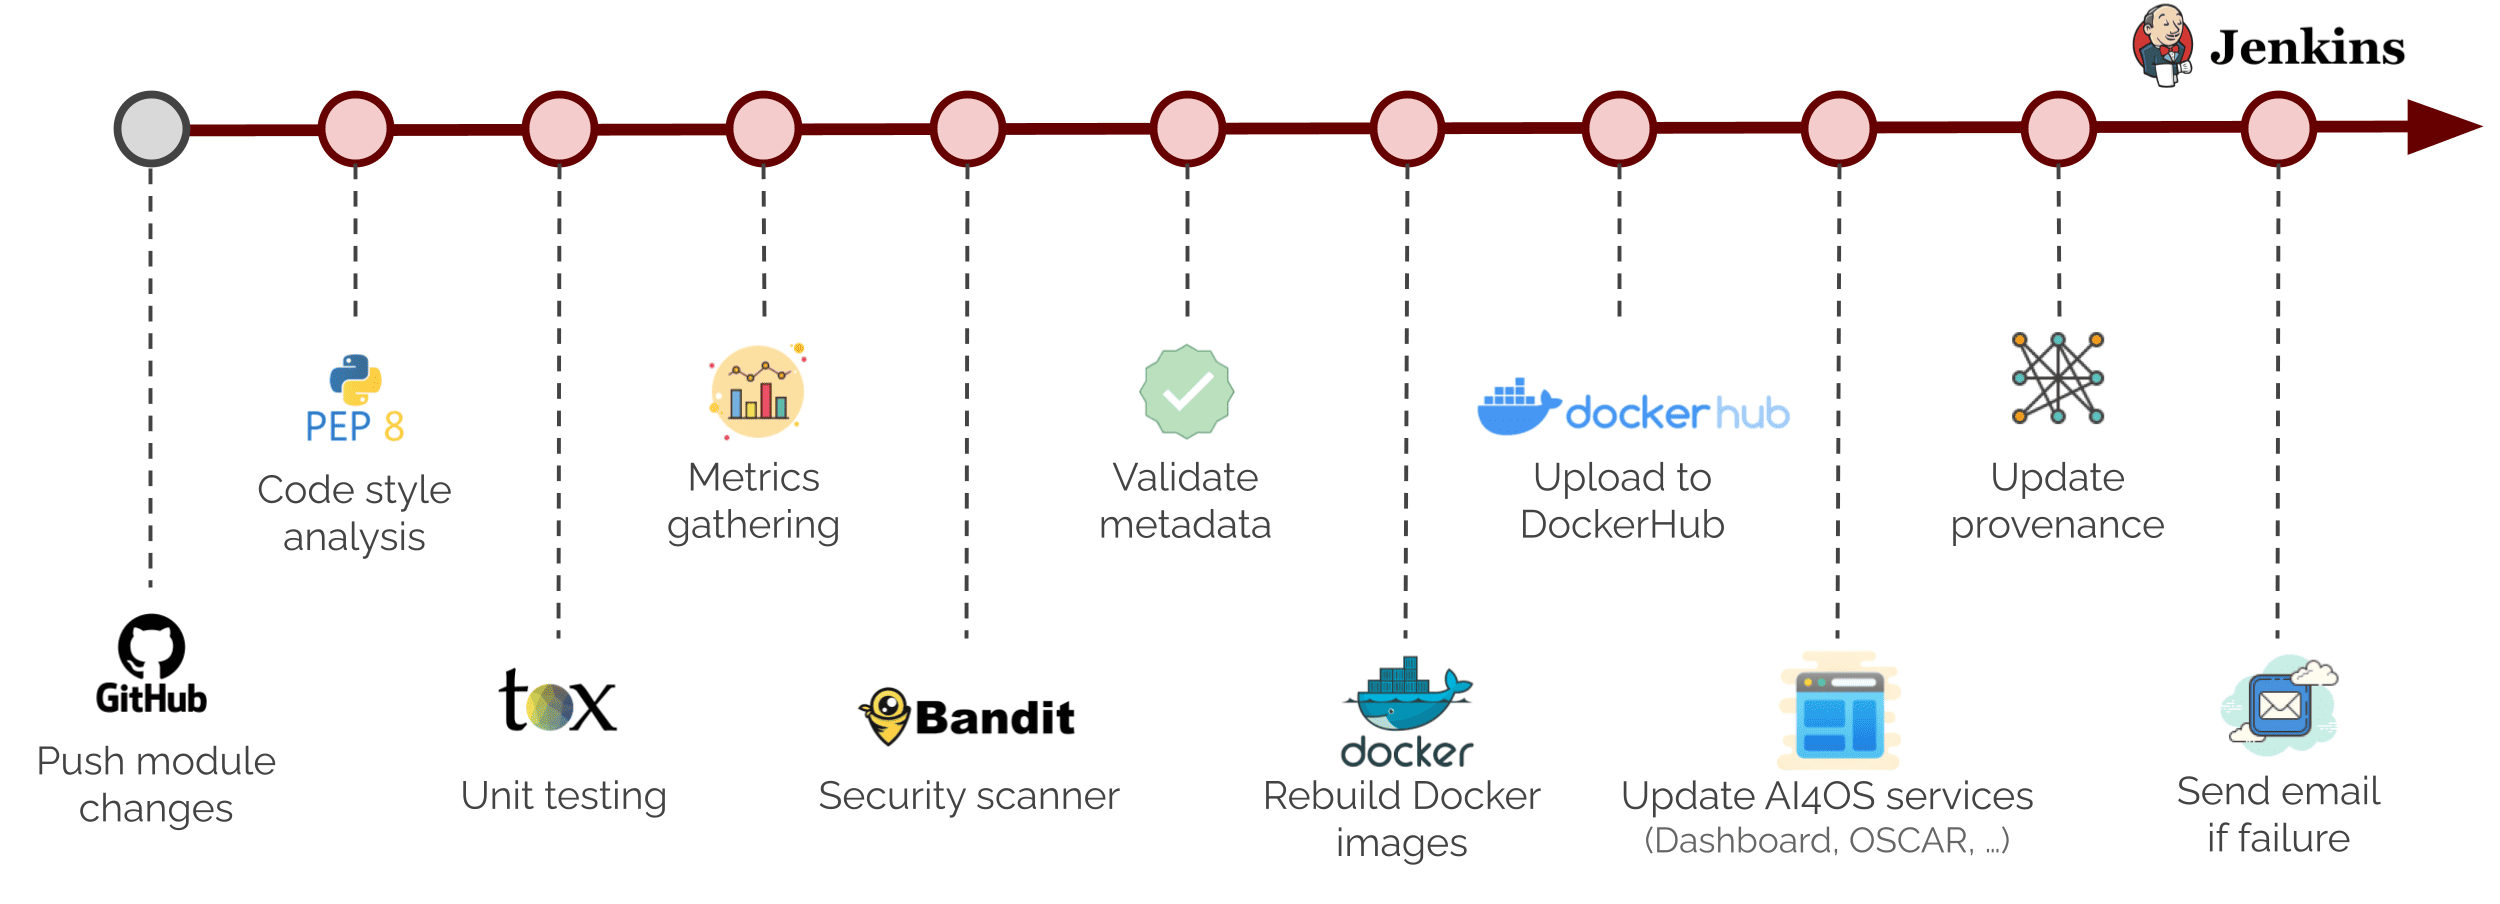
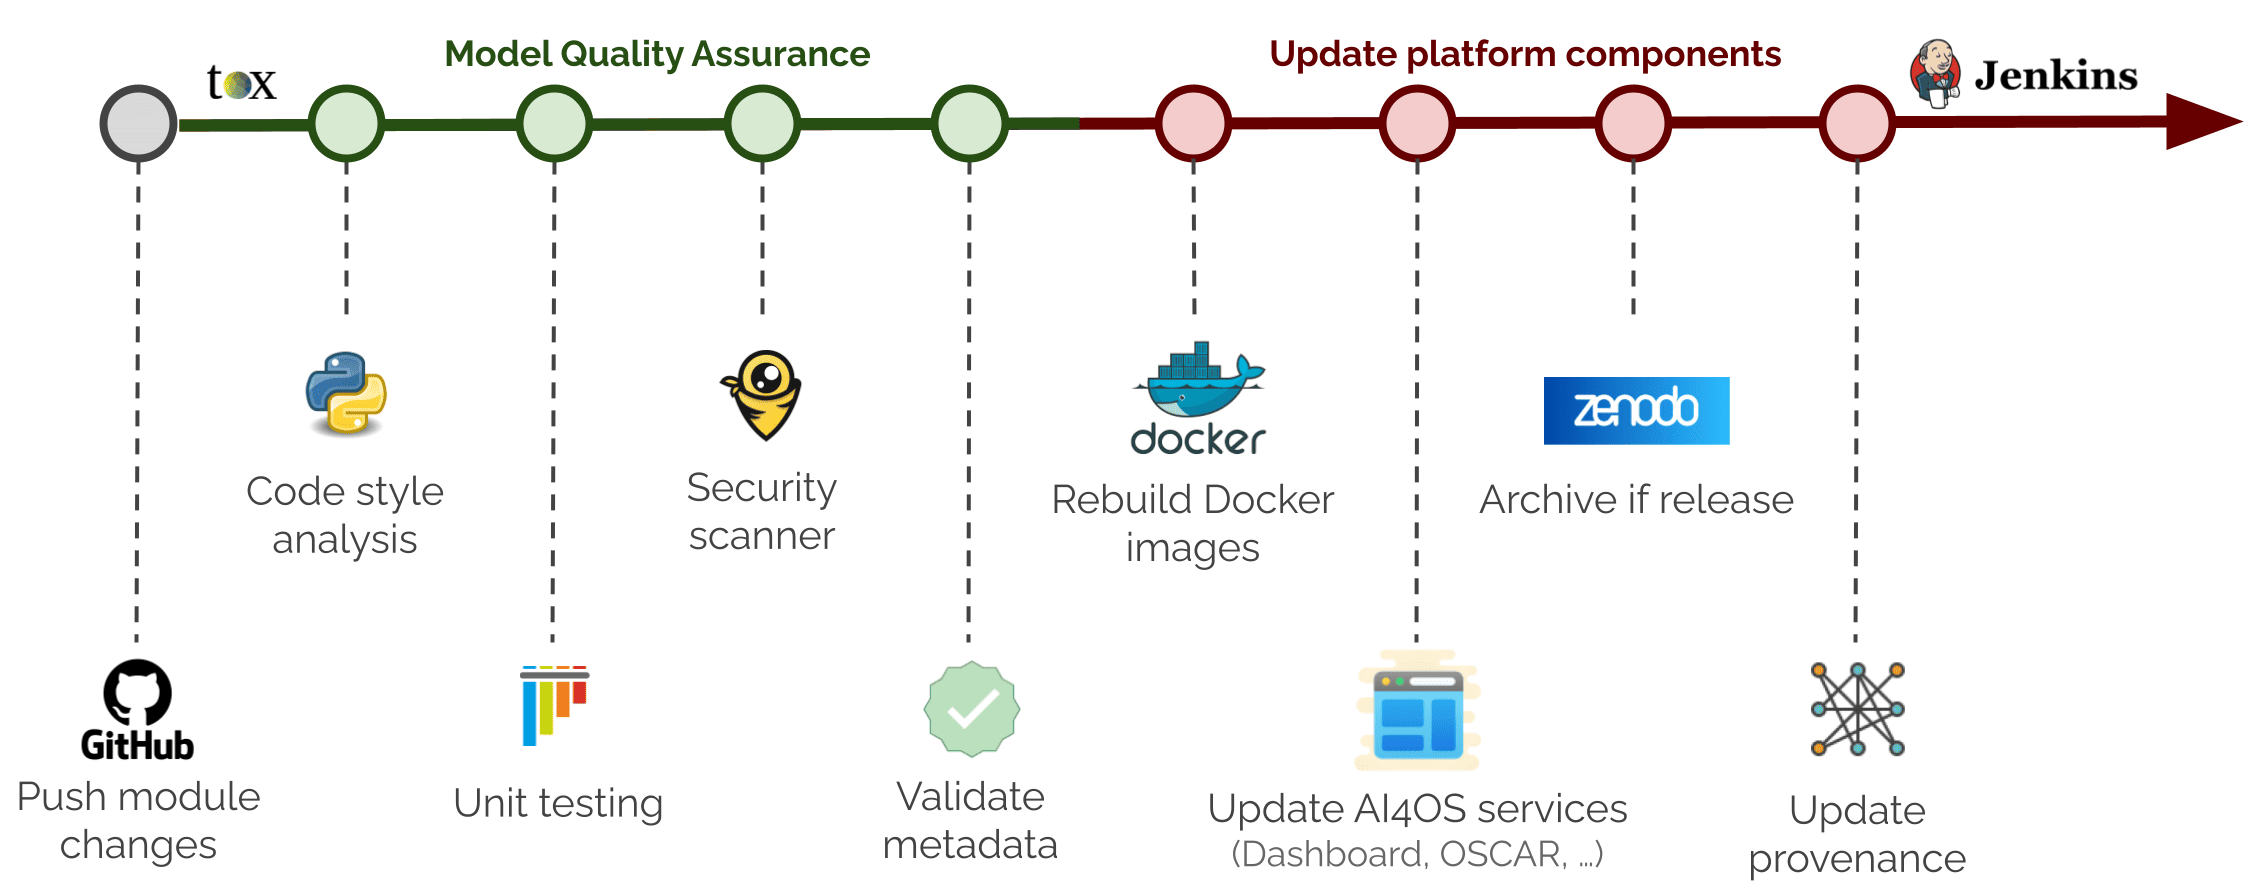
docs: update develop workflow

diff --git a/source/howtos/develop/dashboard.rst b/source/howtos/develop/dashboard.rst
@@ -2,15 +2,6 @@ Develop a model from scratch
 ============================
 
 .. admonition:: Requirements
-   :class: info
-
-   🔒 This tutorial requires :ref:`full authentication <getting-started/register:Full authentication>`.
-
-This tutorial explains how to develop a AI4OS module from scratch.
-
-If you are new to Machine Learning, you might want to check some :doc:`useful Machine Learning resources </others/useful-ml-resources>` we compiled to help you getting started.
-
-.. admonition:: Requirements
     :class: info
 
     * For **Step 1**, to use the Module's template webpage, you need at least :doc:`basic authentication </reference/user-access-levels>`.
@@ -18,6 +9,9 @@ If you are new to Machine Learning, you might want to check some :doc:`useful Ma
       Otherwise you can develop locally.
     * For **Step 4** we recommend having `docker <https://docs.docker.com/install/#supported-platforms>`__ installed (though it's not strictly mandatory).
 
+This tutorial explains how to develop a AI4OS module from scratch.
+
+If you are new to Machine Learning, you might want to check some :doc:`useful Machine Learning resources </others/useful-ml-resources>` we compiled to help you getting started.
 
 1. Setting the framework
 ------------------------
@@ -26,7 +20,7 @@ This first step relies on the :doc:`the AI4OS Modules Template </reference/cooki
 
 * Access and authenticate in the `Template creation webpage <https://templates.cloud.ai4eosc.eu/>`__.
 * Then select the ``minimal`` branch of the template and answer the questions.
-* Click on ``Generate`` and you will be able to download a ``.zip`` file with with your project directory. Extract it locally.
+* Click on ``Generate`` and you will be able to download a ``.zip`` file with with your project directory.
 
 2. Prepare your development environment
 ---------------------------------------
@@ -36,12 +30,12 @@ Although it is possible to develop your code locally, we also offer the possibil
 This offers the benefits of:
 
 * developing on dedicated resources (including GPUs),
-* have direct access to your Nextcloud storage,
-* develop on Docker image that is already packaged with your favorite Deep Learning framework (eg. Pytorch, Tensorflow),
+* have direct access to your data hosted in the :doc:`AI4OS Storage </reference/storage>`,
+* develop on a Docker image that is already packaged with your favorite Deep Learning framework (eg. Pytorch, Tensorflow),
 * develop on your favorite IDE (Jupyterlab or VScode),
 
-Check :ref:`how to configure <dashboard_deployment>` the AI4OS Development Environment.
-For example, this is what an AI4OS Development Environment with VScode would look out-of-the-box:
+Check :ref:`how to create and configure <dashboard_deployment>` the AI4OS Development Environment.
+This is what an AI4OS Development Environment with VScode would look out-of-the-box:
 
 .. dropdown:: :fab:`youtube;youtube-icon` Launching a development environment
 
@@ -54,13 +48,13 @@ For example, this is what an AI4OS Development Environment with VScode would loo
 .. image:: /_static/images/endpoints/vscode.png
 
 
-.. admonition:: Use storage-synced folder to develop
+.. admonition:: 💡 Use storage-synced folder to develop
    :class: info
 
-   We recommend you make a :ref:`deployment synced with storage <dashboard_storage>`.
+   We recommend to create a :ref:`deployment attached to storage <dashboard_storage>`.
 
-   By doing so, you can develop your code inside the ``/storage`` folder and any changes you make will automatically be synced with the :doc:`project's Cloud storage </reference/storage>`.
-   This will prevent you from losing your work in the case that a deployment crash occurs.
+   By doing so, you can develop your code inside the ``/storage`` folder and any changes you make will automatically be synced with the :doc:`AI4OS Storage </reference/storage>`.
+   This will prevent any work loss in case of an unexpected deployment crash.
 
 
 .. _develop_code:
@@ -68,29 +62,30 @@ For example, this is what an AI4OS Development Environment with VScode would loo
 3. Editing the module's code
 ----------------------------
 
-Unpack, the zip file created in Step 1.
-Install your project as a Python module in **editable** mode (so that the changes you make to the codebase are picked by Python).
-
-.. code-block:: console
-
-    $ cd <project-name>
-    $ pip install -e .
-
-Now you can start writing your code.
+Drag and drop in the VScode editor the zip file created in Step 1. Then unpack it.
 
 .. dropdown::  💡 Optimal VScode setup
 
    **Tip nº1**:
    VScode by default is initialized in ``/srv``.
    For a better coding experience we suggest opening VScode with your folder project *only*.
-   This will allow you to ignore other non-related folders under ``/srv`` when doing global searches for example.
+   This will allow you to ignore other non-related folders under ``/srv`` when doing global searches or tracking changes, for example.
    For this, go to ``File > Open Folder > /srv/<project-name>``.
+
+   As explained earlier, having your project under ``/storage`` will allow it to be automatically synced with the :doc:`AI4OS Storage </reference/storage>`.
 
    **Tip nº2**:
    :ref:`Use the AI4OS LLM as coding assistant <reference/llm:Use it as a code assistant with VScode>`.
-   We recommend doing this along tip nº1 in order to avoid Continue from freezing when trying to index the whole workspace contents.
+   We recommend implementing first tip nº1, in order to avoid the Continue assistant from freezing when trying to index the whole workspace contents.
 
-.. dropdown::  🛠 Troubleshooting DEEPaaS installation
+Install your project as a Python module in **editable** mode, so that the changes you make to the codebase are picked by Python.
+
+.. code-block:: console
+
+   cd <project-name>
+   pip install -e .
+
+.. dropdown::  🛠 Troubleshooting pip installation
 
     Some users have reported issues in some systems when installing ``deepaas`` (which is always present in the ``requirements.txt`` of your project).
     Those issues have been resolved as following:
@@ -98,9 +93,13 @@ Now you can start writing your code.
     * In `Pytorch Docker images <https://hub.docker.com/r/pytorch/pytorch>`__, making sure ``gcc`` is installed (``apt install gcc``)
     * In other systems, sometimes ``python3-dev`` is needed (``apt install python3-dev``).
 
+Now you can start adding your AI model code inside ``<project-name>/<project-name>``.
 
-To be able to interface with DEEPaaS :ref:`you have to define <deepaas-integrate>`
-in ``api.py`` the functions you want to make accessible to the user.
+Integrating with the DEEPaaS API
+^^^^^^^^^^^^^^^^^^^^^^^^^^^^^^^^
+
+Once your code is included, you need your module to be able to interface with the :doc:`DEEPaaS API </reference/api>`, which allows any module in the Marketplace to be accessed using the same API.
+For this, :ref:`you have to define <deepaas-integrate>` in ``api.py`` the functions you want to make accessible to the user.
 For this tutorial we are going to head to our `official demo module <https://github.com/ai4os-hub/ai4os-demo-app/blob/main/ai4os_demo_app/api.py>`__
 and copy-paste its ``api.py`` file.
 
@@ -108,7 +107,7 @@ Once this is done, check that DEEPaaS is interfacing correctly by running:
 
 .. code-block:: console
 
-    $ deepaas-run --listen-ip 0.0.0.0
+   deepaas-run --listen-ip 0.0.0.0
 
 Your module should be visible in http://0.0.0.0:5000/ui .
 If you don't see your module, you probably messed the ``api.py`` file.
@@ -116,7 +115,7 @@ Try running it with python so you get a more detailed debug message.
 
 .. code-block:: console
 
-    $ python api.py
+   python api.py
 
 Remember to leave untouched the ``get_metadata()`` function that comes predefined with your module,
 as all modules should have proper metadata.
@@ -128,14 +127,17 @@ In general, you will have the following ports available when making a deployment
 * ``8888``: default port used for exposing the IDE (eg. JupyterLab, VScode)
 * ``80``: port available to let developers expose their custom endpoint
 
+Model Quality Assurance
+^^^^^^^^^^^^^^^^^^^^^^^
+
 In order to improve the readability of the code and the overall maintainability of your module,
-we enforce some quality standards in tox (including style, security, etc).
+we :ref:`enforce some quality standards <reference/modules:CI /CD pipeline>` in tox (including style, security, etc).
 Modules that fail to pass style tests won't be able to build docker images.
 You can check locally if your module passes the tests:
 
 .. code-block:: console
 
-    $ tox -e .
+   tox -e .
 
 There you should see a detailed report of the offending lines (if any).
 You can always `turn off flake8 testing <https://stackoverflow.com/a/64431741>`__
@@ -152,7 +154,7 @@ in some parts of the code if long lines are really needed.
 
     .. code-block:: console
 
-        $ black <code-folder> --diff
+        black <code-folder> --diff
 
     You can always `turn off Black formatting <https://black.readthedocs.io/en/stable/the_black_code_style/current_style.html?highlight=fmt#code-style>`__
     if you want to keep some sections of your code untouched.
@@ -161,7 +163,7 @@ in some parts of the code if long lines are really needed.
 
     .. code-block:: console
 
-        $ black <code-folder>
+        black <code-folder>
 
     Remember to have a backup before reformatting, just in case!
 
@@ -181,8 +183,8 @@ Check your Dockerfile works correctly by building it **locally** (outside the AI
 
 .. code-block:: console
 
-    $ docker build --no-cache -t your_project .
-    $ docker run -ti -p 5000:5000 -p 6006:6006 -p 8888:8888 your_project
+   docker build --no-cache -t your_project .
+   docker run -ti -p 5000:5000 -p 6006:6006 -p 8888:8888 your_project
 
 Your module should be visible in http://0.0.0.0:5000/ui .
 You can make a POST request to the ``predict`` method to check everything is working as intended.

diff --git a/source/snippets/integrate-marketplace.rst b/source/snippets/integrate-marketplace.rst
@@ -1,15 +1,16 @@
-Once your repo is set, it's time to integrate it in the :ref:`Marketplace <dashboard_marketplace>`!
-
-For this the steps are:
+Once your repo is set, it's time to integrate it in the :ref:`Marketplace <dashboard_marketplace>`:
 
 1. `Open an issue <https://github.com/ai4os-hub/modules-catalog/issues/new>`__ in the `AI4OS Catalog repo <https://github.com/ai4os-hub/modules-catalog>`__.
-2. An admin will create the Github repo for your module inside the `ai4os-hub organization <https://github.com/ai4os-hub>`__.
+2. An AI4OS admin will create the Github repo for your module inside the `ai4os-hub organization <https://github.com/ai4os-hub>`__.
    You will be granted ``write`` permissions in that repo.
 
-   Modules repos follow the following convention:
+   .. dropdown::  :material-outlined:`info;1.5em` Naming conventions
 
-   * ``ai4os-hub/ai4-<project-name>``: module officially developed by the project
-   * ``ai4os-hub/<project-name>``: modules developed by external users
+      Modules repos follow the following convention:
+
+      * ``ai4os-hub/ai4-<project-name>``: module officially developed by the project
+      * ``ai4os-hub/<project-name>``: modules developed by external users
+
 3. Upload your code to that repo.
 4. An admin will review your code and add it to the AI4OS Catalog.
    Once a module is approved it will take roughly 6 hours to appear in the Dashboard's Marketplace.

diff --git a/source/reference/modules.rst b/source/reference/modules.rst
@@ -42,6 +42,19 @@ for implementing CI/CD (Continuous Integration / Continuous Development) pipelin
 series of actions for you each time you commit a change in your code. This ensures that all the information and builds
 across the project are always up-to-date with your code.
 
-This is an example of actions that are performed by the pipeline:
+A typical pipeline is divided in two parts:
+
+* a model quality assurance section, using `tox <https://tox.wiki/>`__, where we do:
+
+  * code style analysis using `flake8 <https://flake8.pycqa.org/>`__,
+  * unit testing using `pytest <https://docs.pytest.org/>`__,
+  * security scanners using `Bandit <https://bandit.readthedocs.io/>`__,
+  * `metadata validation <https://github.com/ai4os/ai4-metadata>`__,
+
+* a platform components update, where we:
+
+  * build the Docker image to the AI4OS Registry and mirror to DockerHub,
+  * update the Marketplace and additional AI4OS services,
+  * regenerate the provenance chain of that module,
 
 .. image:: /_static/images/ai4eosc/jenkins.png

diff --git a/source/snippets/edit-metadata.rst b/source/snippets/edit-metadata.rst
@@ -91,5 +91,5 @@ Check you didn't mess up the YAML definition by running our `metadata validator 
 
 .. code-block:: console
 
-    $ pip install ai4-metadata
-    $ ai4-metadata validate ai4-metadata.yml
+   pip install ai4-metadata
+   ai4-metadata validate ai4-metadata.yml
